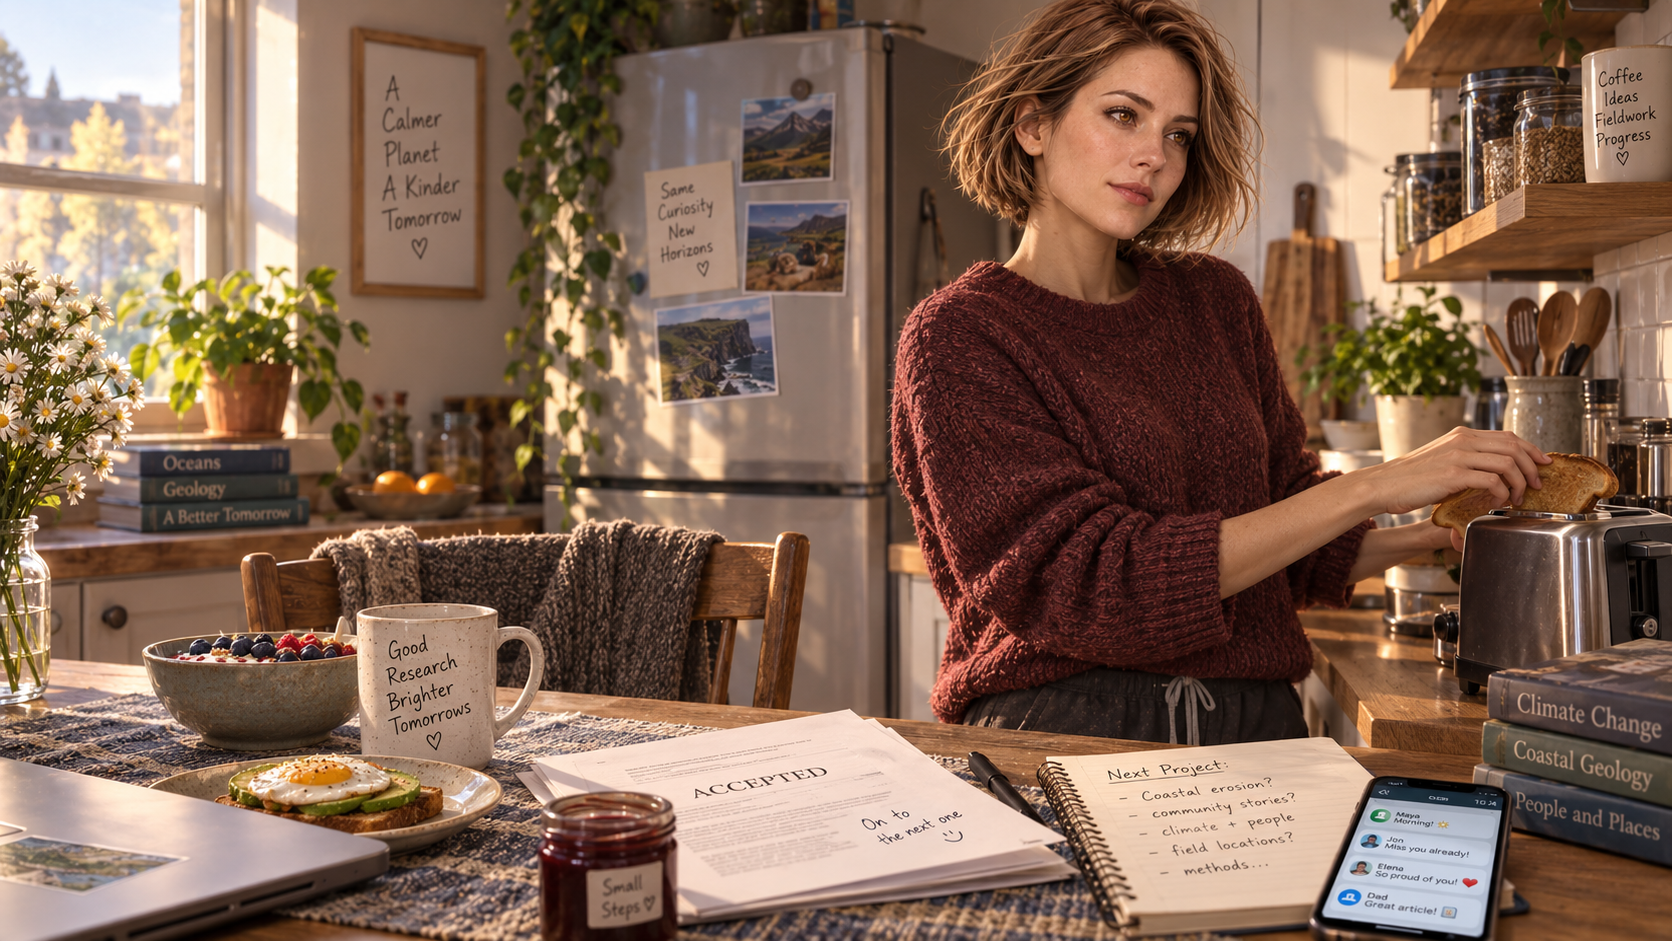
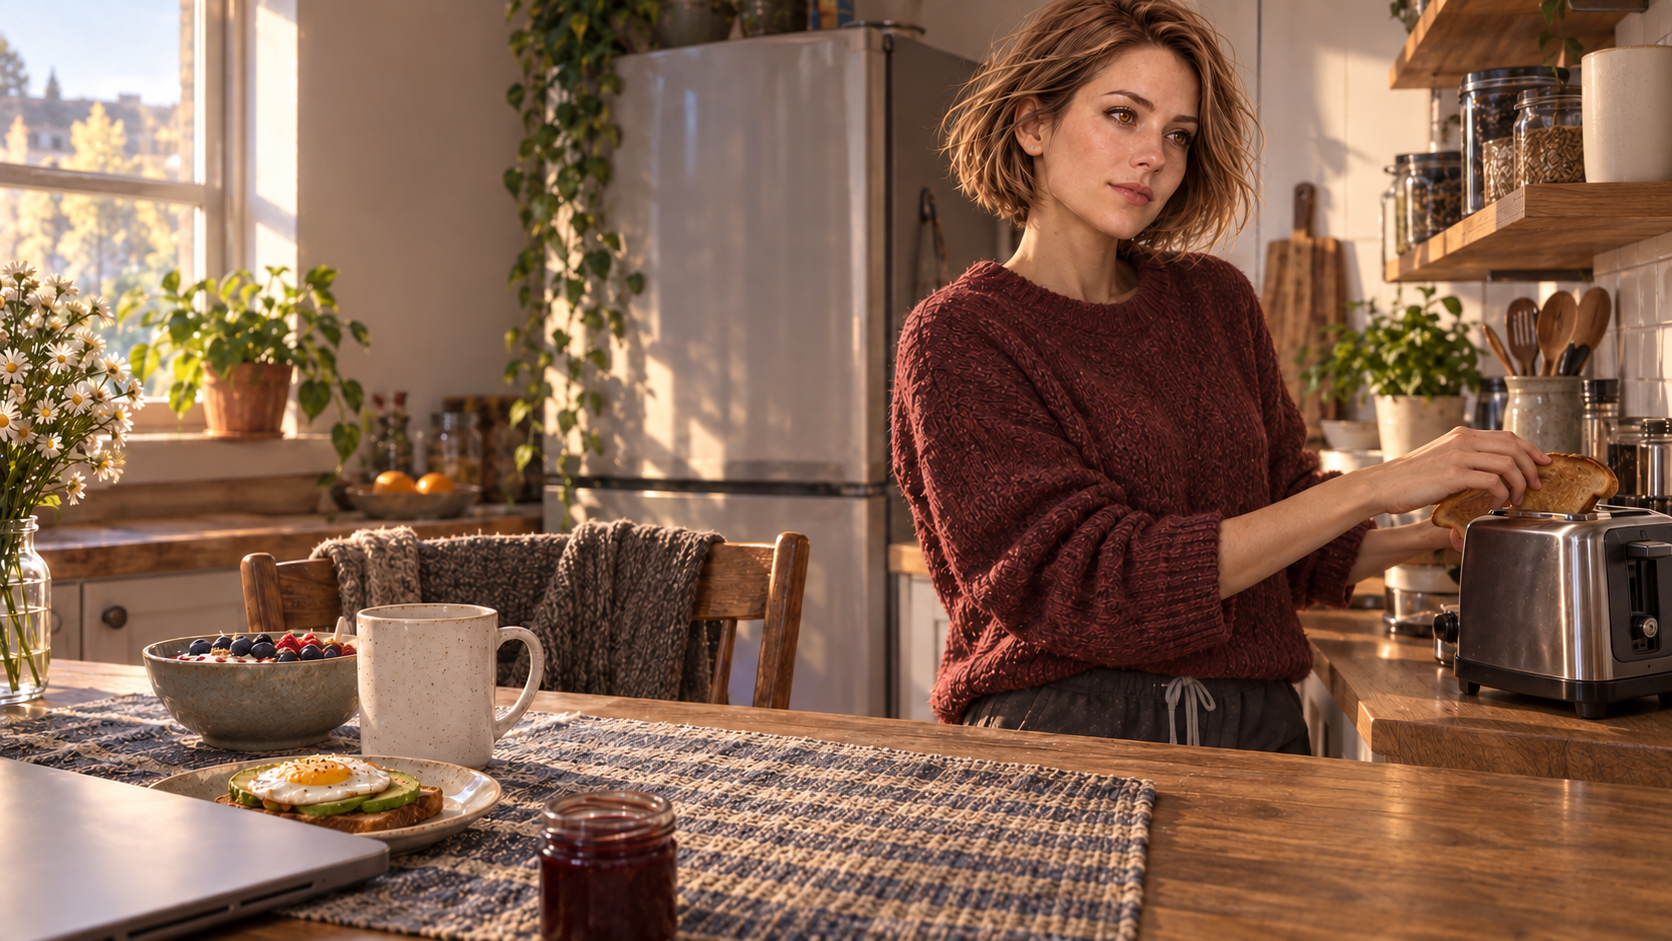
Fix epilogue text artifacts and mobile reader layout

diff --git a/src/literary-player.js b/src/literary-player.js
@@ -168,7 +168,9 @@ function renderReader(){
   const sheet=el('','reader-sheet');sheet.append(el(cleanLiteraryText(scene.title),'reader-scene','h2'));
   if(reader.migrationNotice){sheet.append(el('После обновления визуальных переходов продолжение начинается с начала текущей сцены. Прежний прогресс и выборы сохранены.','migration-note'));reader.migrationNotice=false;persist();}
   if(current?.type==='page'){
-    for(const paragraph of current.paragraphs)sheet.append(el(cleanLiteraryText(paragraph),'reader-paragraph','p'));
+    const content=el('','reader-content');
+    for(const paragraph of current.paragraphs)content.append(el(cleanLiteraryText(paragraph),'reader-paragraph','p'));
+    sheet.append(content);
     const footer=el('','reader-footer');
     footer.append(el(`${reader.position+1} / ${flow.length}`,'page-counter'));
     const nextDecision=flow.findIndex((entry,index)=>index>reader.position+1 && entry.type==='choice');
@@ -176,17 +178,21 @@ function renderReader(){
     footer.append(button('Далее →',()=>{reader.position++;persist();renderReader()},'primary'));
     sheet.append(footer);
   } else if(current?.type==='choice'){
-    sheet.append(el('ТВОЙ ВЫБОР','choice-label'));
-    if(current.question)sheet.append(el(current.question,'decision-question','p'));
+    const content=el('','reader-content');
+    content.append(el('ТВОЙ ВЫБОР','choice-label'));
+    if(current.question)content.append(el(current.question,'decision-question','p'));
     const options=el('','reader-options');
     for(const opt of current.options)options.append(button(cleanLiteraryText(opt.label),()=>{reader.choices[current.id]=opt.code;persist();renderReader()},'choice-button'));
-    sheet.append(options);
+    content.append(options);
+    sheet.append(content);
   }else{
     const next=nextLiteraryScene(reader.sceneId,reader.choices);
     if(next && byId.has(next))sheet.append(button(`Следующая сцена → ${next}`,()=>{reader.sceneId=next;reader.position=0;if(!reader.visited.includes(next))reader.visited.push(next);persist();renderReader()},'primary'));
     else if(['S44','S45','S46','S47'].includes(scene.id)){
       if(!reader.finished){reader.finished=true;persist()}
-      sheet.append(el('Конец первого сезона. Это завершение выбранной истории; начать другое прохождение можно из меню.','reader-paragraph'));
+      const content=el('','reader-content');
+      content.append(el('Конец первого сезона. Это завершение выбранной истории; начать другое прохождение можно из меню.','reader-paragraph'));
+      sheet.append(content);
       sheet.append(button('Вернуться в меню',goHome,'primary'));
     }else{sheet.append(el('Следующая сцена недоступна: ошибка структуры сценария.','reader-paragraph'));sheet.append(button('В меню',goHome,'primary'))}
   }

diff --git a/src/literary.css b/src/literary.css
@@ -37,7 +37,9 @@ button:disabled{opacity:.43;cursor:not-allowed}
 .stage-character.stage-alice{z-index:3}.stage-character.stage-eric{z-index:2}.stage-character.stage-nick{z-index:1}.stage-character.stage-damir{z-index:2}
 @keyframes stage-in{from{opacity:0;transform:translateY(12px)}to{opacity:1;transform:translateY(0)}}
 .reader-header{z-index:4}
-.reader-sheet{z-index:3;max-height:min(55dvh,610px);background:linear-gradient(125deg,rgba(12,23,32,.94),rgba(22,34,41,.92));box-shadow:0 23px 90px rgba(0,0,0,.57);border-color:rgba(225,189,136,.7)}
+.reader-sheet{z-index:3;max-height:min(55dvh,610px);overflow:hidden;display:flex;flex-direction:column;min-height:0;background:linear-gradient(125deg,rgba(12,23,32,.94),rgba(22,34,41,.92));box-shadow:0 23px 90px rgba(0,0,0,.57);border-color:rgba(225,189,136,.7)}
+.reader-content{min-height:0;flex:1 1 auto;overflow:auto;overscroll-behavior:contain}
+.reader-footer{flex:0 0 auto}
 .reader-paragraph{font-size:calc(clamp(17px,2.2vw,21px)*var(--literary-scale));line-height:1.58;text-wrap:pretty}
 .reader-scene{font-size:14px;line-height:1.45}
 .literary-contrast .reader-sheet{background:#08131c;color:white;border:2px solid #f2d7b0}

diff --git a/docs/VISUAL_ASSET_COMPLETION_REPORT_2026-09-23.md b/docs/VISUAL_ASSET_COMPLETION_REPORT_2026-09-23.md
@@ -44,4 +44,11 @@
 
 ## Что осталось
 
-Не закрыты отдельными достоверными ассетами: автомобиль/кафе S02, гостевой дом Рейкьявика S03/S65, Hveragerði S06–S08/S66, парковка и переходы S04/S13/S15, бассейн S19/S53, восточные фьорды S23–S28, городские и route-specific постановки S29/S33/S41/S42/S49/S52/S55/S56/S60/S62/S63/S64, а также часть переходных кадров внутри длинных сцен. Из-за этого общий visual coverage gate остаётся PARTIAL, а не PASS.
+
+## Follow-up: очистка текста на CG и mobile S46 — 2026-09-23
+
+- На четырёх финальных CG удалены обнаруженные случайные/неуместные надписи и текстовые артефакты локальной правкой изображения; композиция, персонажи и routing не менялись.
[1 lines of base64/hex data omitted]
+- Для длинных страниц текст теперь находится во внутреннем прокручиваемом `.reader-content`, а `.reader-footer` с кнопкой «Далее» остаётся закреплённым внутри карточки; текст и размер шрифта не сокращались.
+- Добавлен регрессионный тест мобильной компоновки в `tests/narrative/literary-reader.test.mjs`.
+- Браузерные скриншоты этого follow-up не созданы: Playwright на текущем Windows host заблокирован отсутствующим WSL2/Hyper-V (`HCS_E_HYPERV_NOT_INSTALLED`). Статус follow-up: **PARTIAL**, не PASS.
